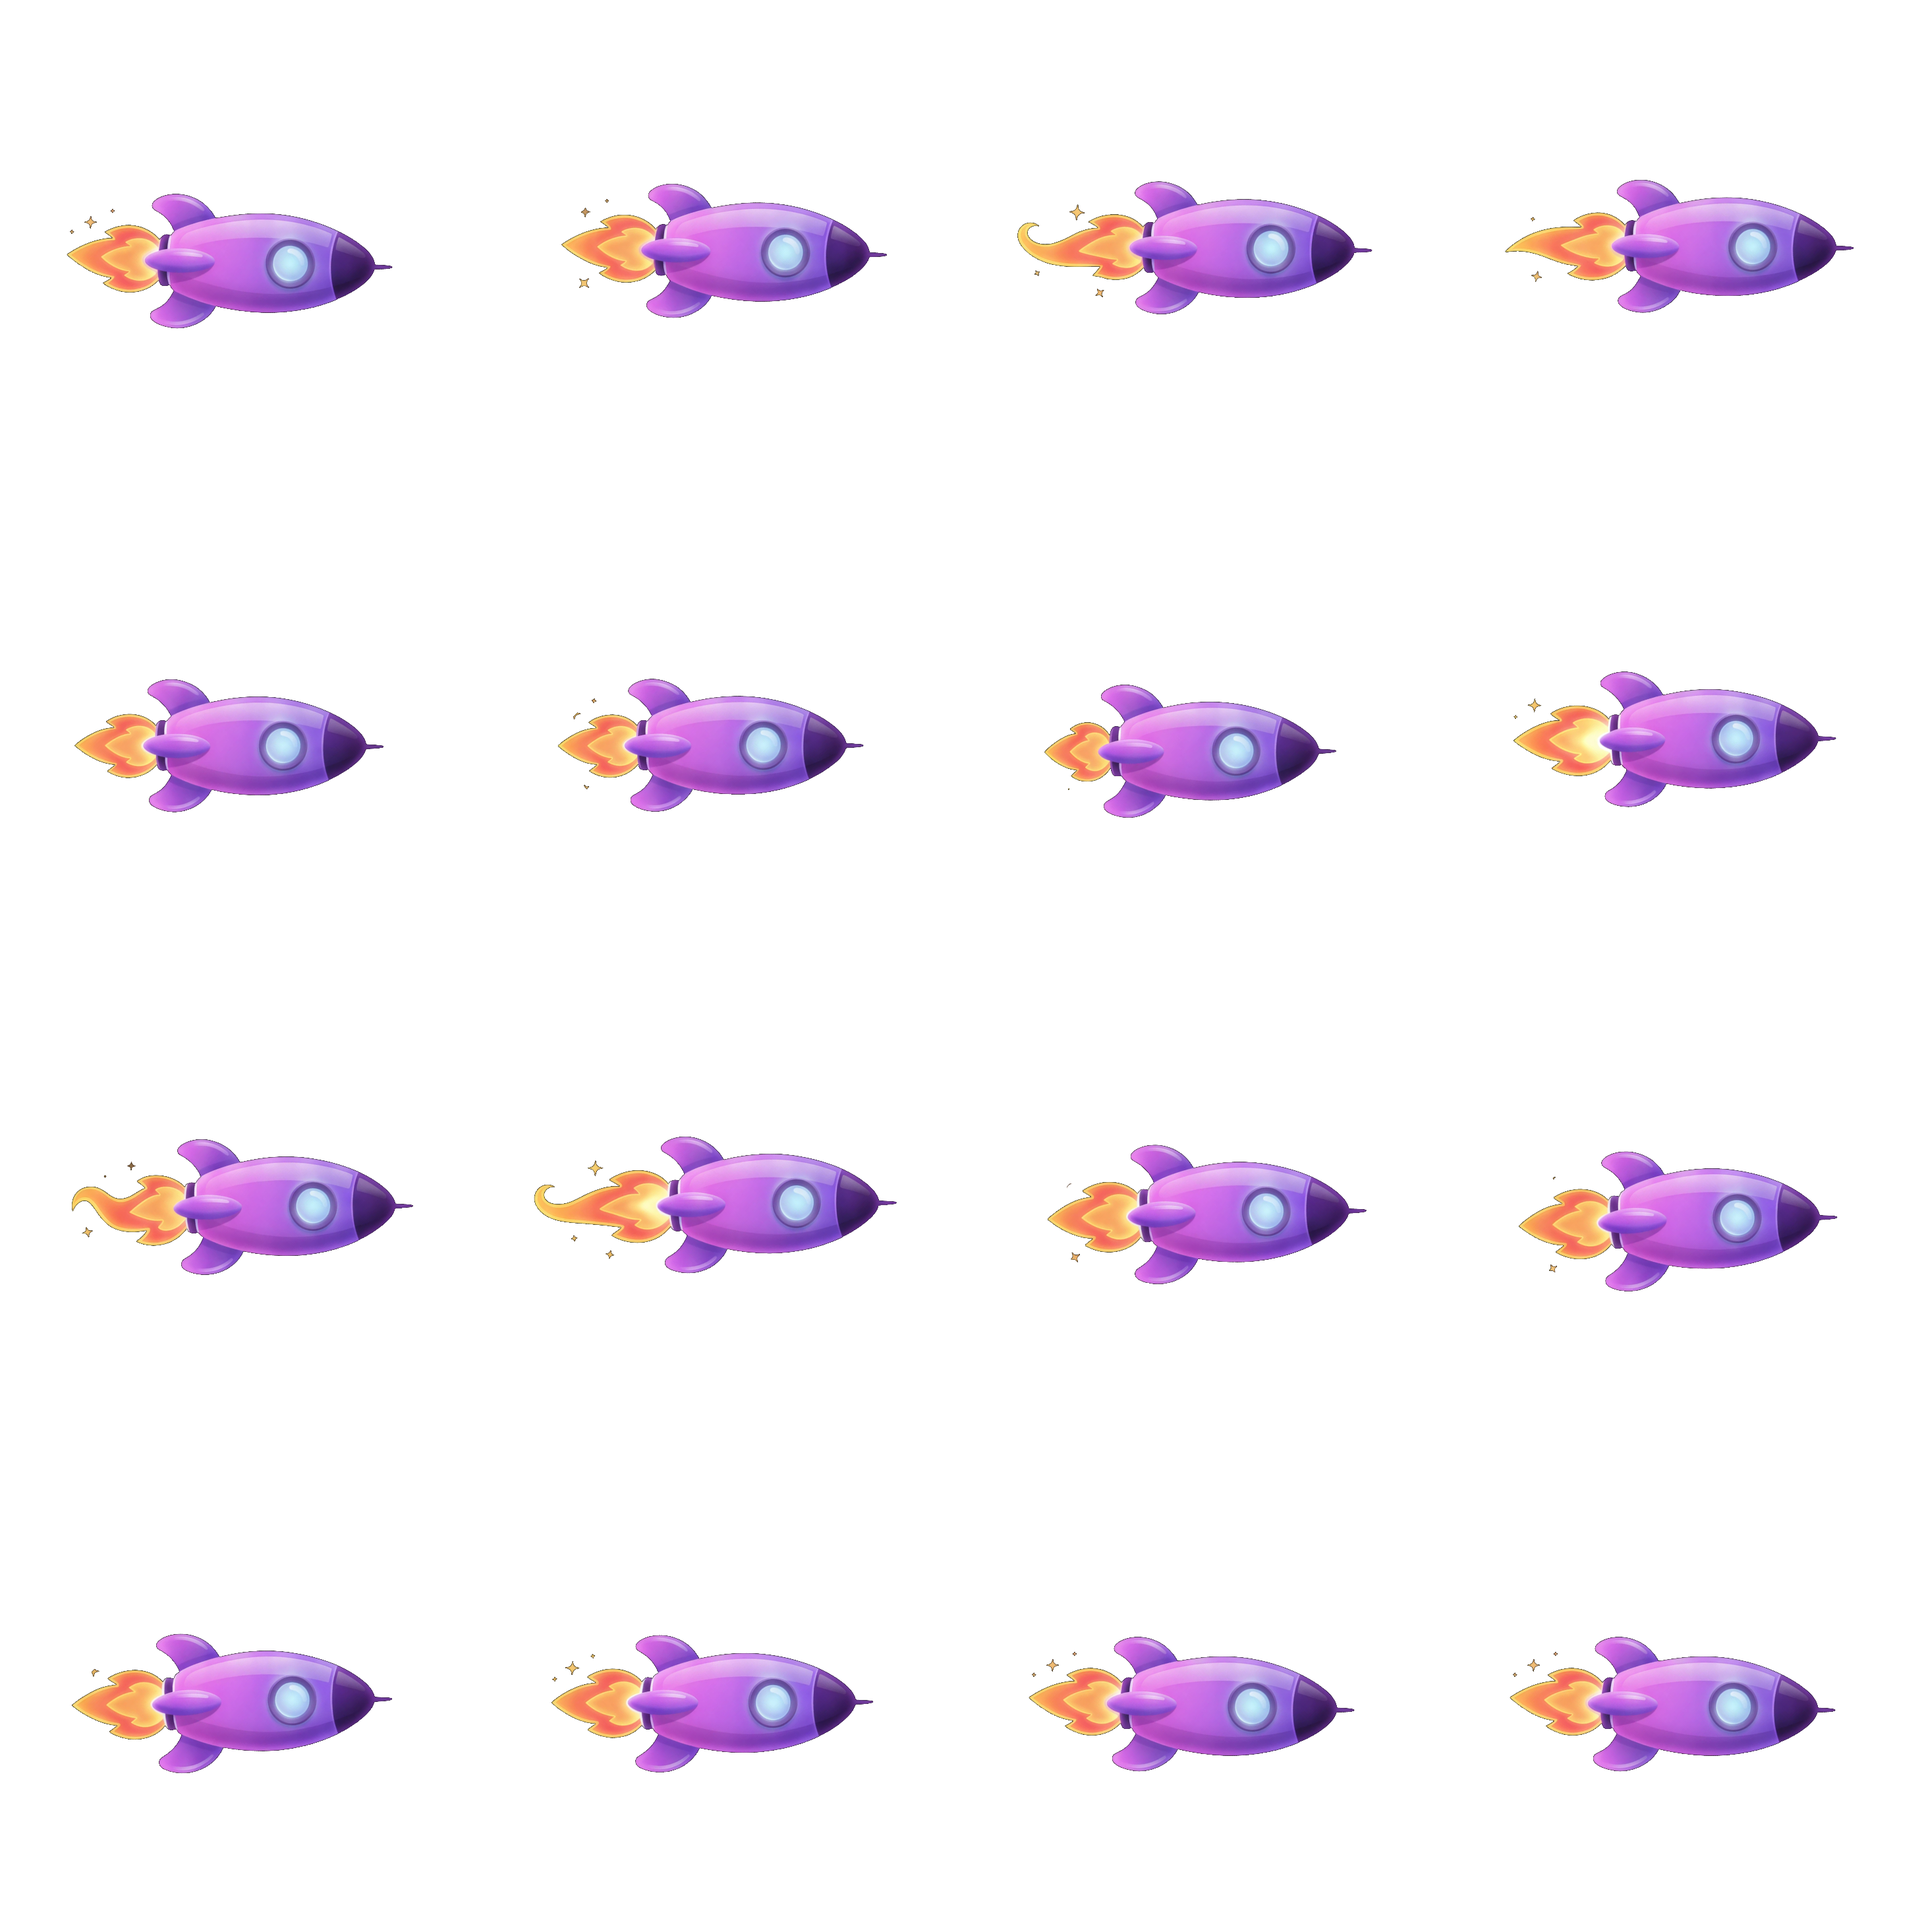
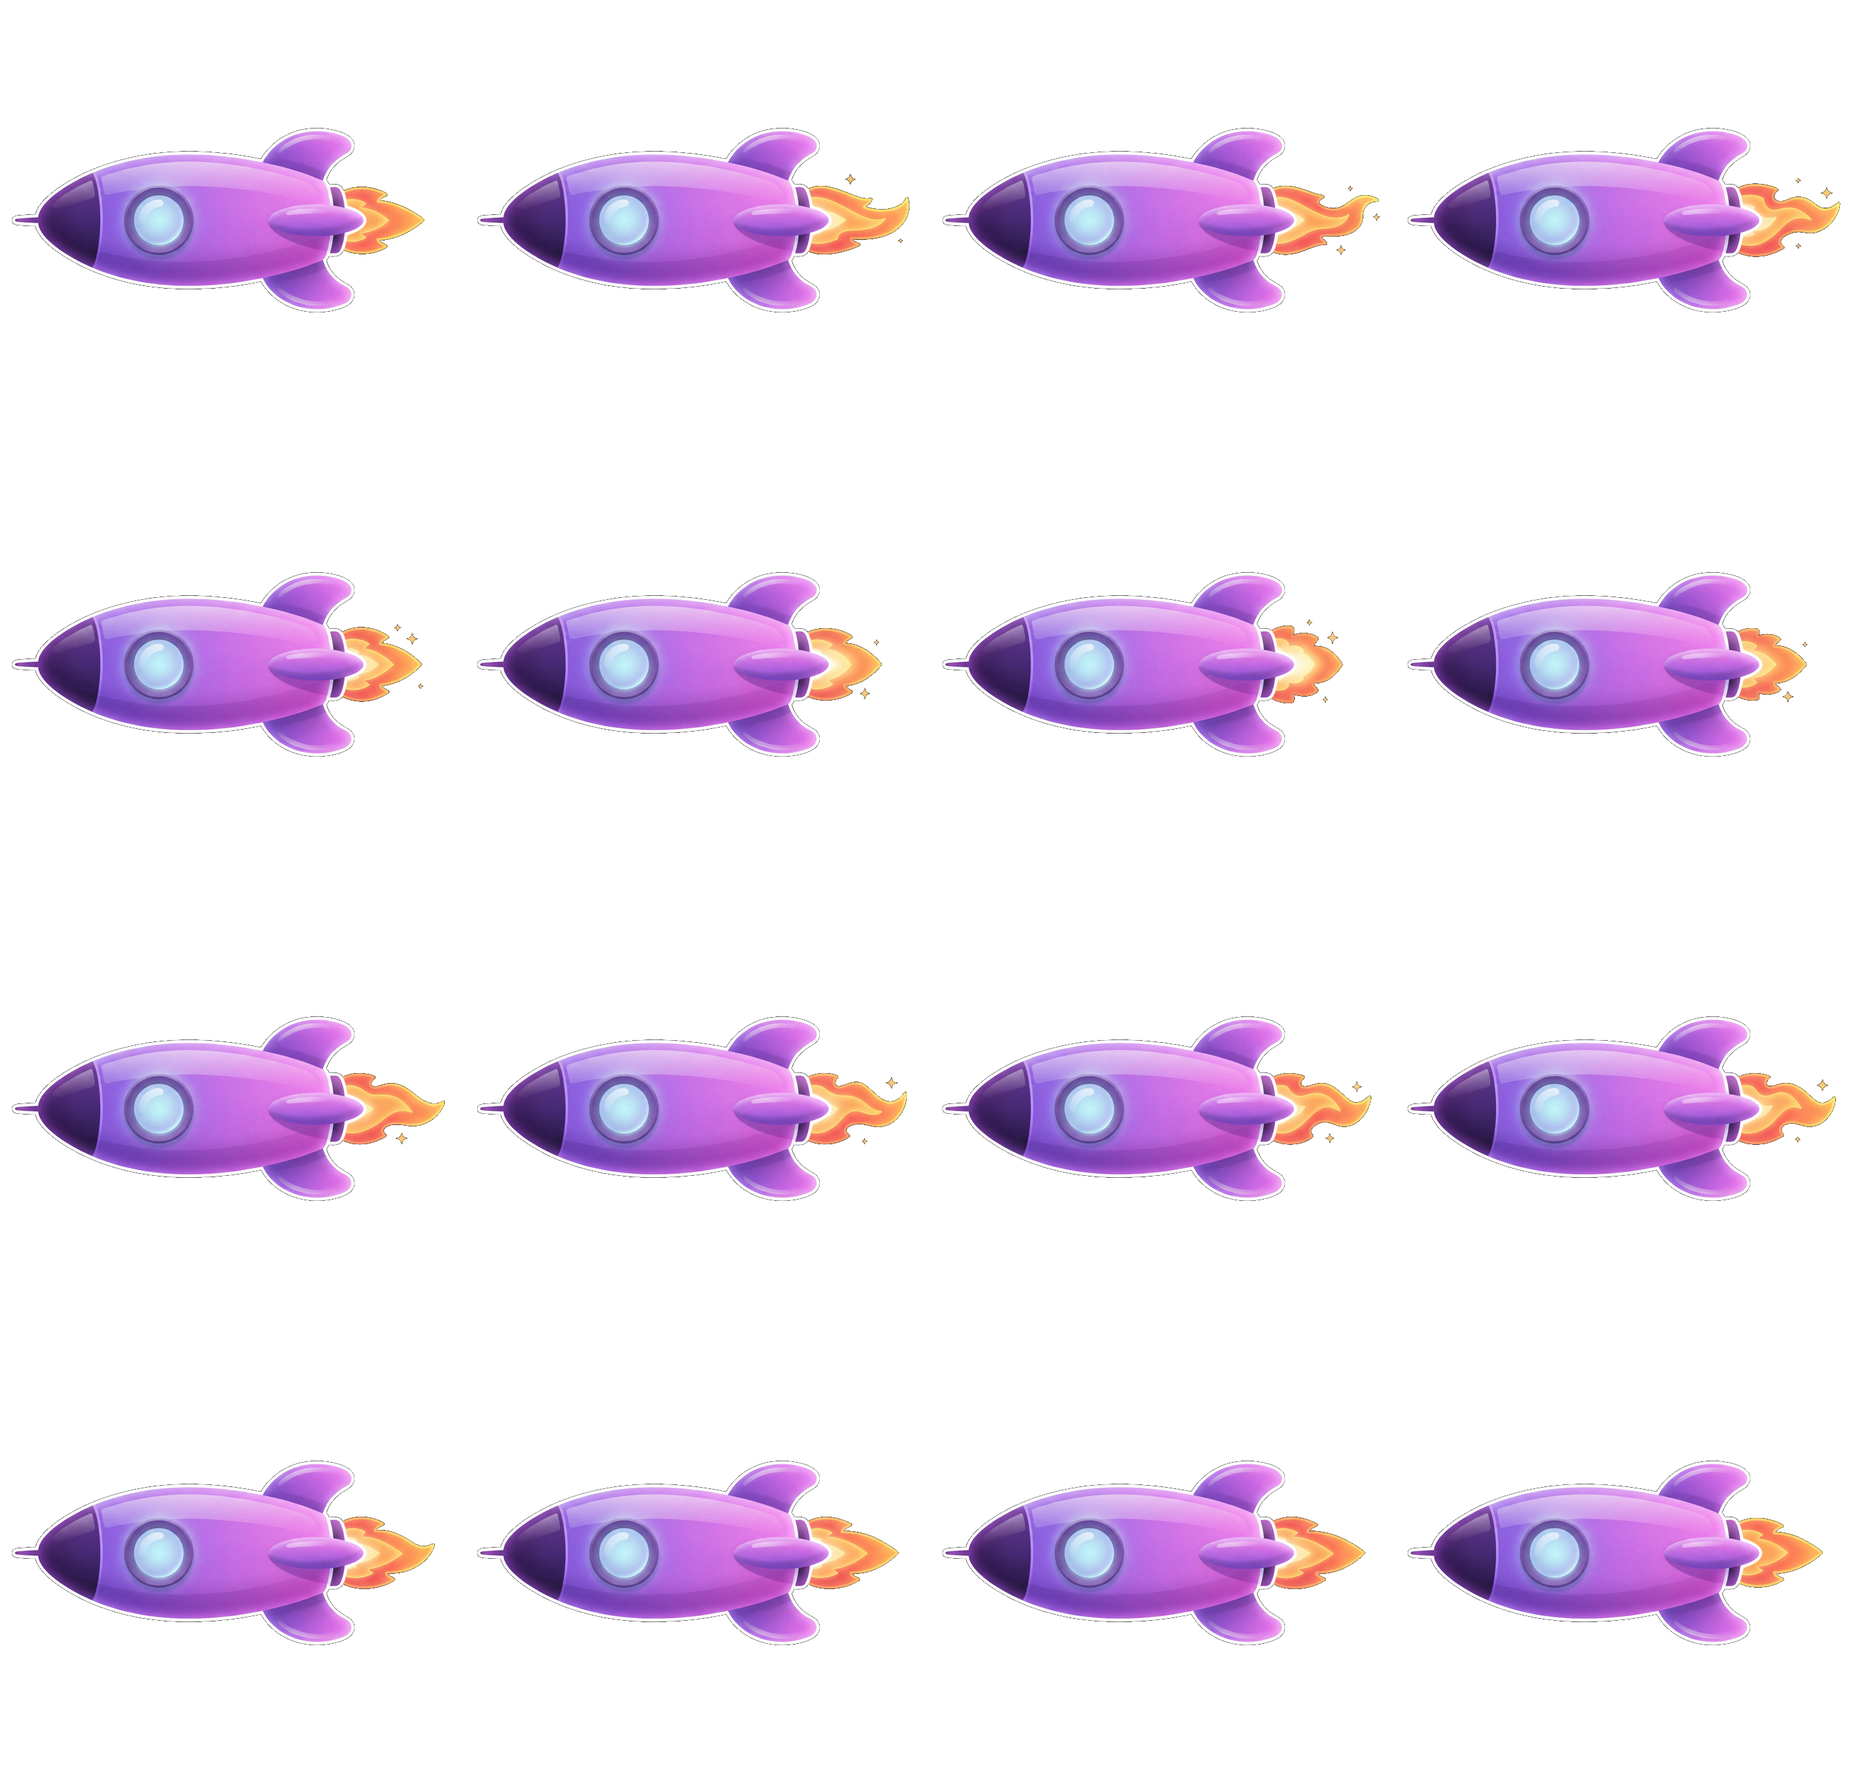
Aviator: swap in the new rocket sprite set (with sticker outline)
Replaced the first rocket sprite sheet with a new one built from a
fresh 16-frame export the user uploaded to Figma — cleaner art with a
white sticker-style outline. Source frames are non-square this time
(700x668 per cell after downscale, vs the old 725x725), confirmed
top-left anchored (rocket body starts at the identical pixel in every
frame) so the sheet assembly still keeps the body rock-steady across
frames with only the flame animating.

diff --git a/src/app/demos/aviator/page.tsx b/src/app/demos/aviator/page.tsx
@@ -152,10 +152,12 @@ function rollAmbientCrash(u: number) {
 // needed the way the earlier vector biplane required. The rocket's own body
 // never moves within its cell — only the exhaust flame animates — so the
 // sprite can just be centered on the flight path with no anchor-offset math.
-const ROCKET_SHEET_CELL = 725;
-const ROCKET_SHEET_PITCH = 730;
-const ROCKET_SHEET_PX = 2920;
-const ROCKET_W = 204, ROCKET_H = 204;
+// v2 art (replaced per feedback) — not square: each cell is 700x668, laid
+// out on a 706x674 pitch (4x4 grid, sheet 2824x2696).
+const ROCKET_SHEET_CELL_W = 700, ROCKET_SHEET_CELL_H = 668;
+const ROCKET_SHEET_PITCH_W = 706, ROCKET_SHEET_PITCH_H = 674;
+const ROCKET_SHEET_PX_W = 2824, ROCKET_SHEET_PX_H = 2696;
+const ROCKET_W = 204, ROCKET_H = Math.round(ROCKET_W * (ROCKET_SHEET_CELL_H / ROCKET_SHEET_CELL_W));
 const ROCKET_ART_OFFSET_DEG = 0;
 
 // ---------- palette / fake data ----------
@@ -317,15 +319,15 @@ function RocketSheetSprite() {
     raf = requestAnimationFrame(tick);
     return () => cancelAnimationFrame(raf);
   }, []);
-  const k = ROCKET_W / ROCKET_SHEET_CELL;
+  const k = ROCKET_W / ROCKET_SHEET_CELL_W;
   const col = idx % 4;
   const row = Math.floor(idx / 4);
   return (
     <div style={{
       width: ROCKET_W, height: ROCKET_H,
       backgroundImage: `url(${IMG}/arena/rocket-sheet-rgba.png)`,
-      backgroundSize: `${ROCKET_SHEET_PX * k}px ${ROCKET_SHEET_PX * k}px`,
-      backgroundPosition: `-${col * ROCKET_SHEET_PITCH * k}px -${row * ROCKET_SHEET_PITCH * k}px`,
+      backgroundSize: `${ROCKET_SHEET_PX_W * k}px ${ROCKET_SHEET_PX_H * k}px`,
+      backgroundPosition: `-${col * ROCKET_SHEET_PITCH_W * k}px -${row * ROCKET_SHEET_PITCH_H * k}px`,
     }} />
   );
 }

diff --git a/scripts/prep-aviator-rocket.py b/scripts/prep-aviator-rocket.py
@@ -1,9 +1,13 @@
-"""Assembles the 14 individually-exported rocket animation frames (Figma
-file 4anwFeSG9mfV4vSrreKvVC, node 965:10939, frames named frame_01..frame_16
-skipping 08/09) into one 4x4 sprite sheet and alpha-keys the flat #1e1e1e
-background, reusing the exact same border-connected flood-fill technique as
-prep-capybara-assets.py. Frame 1 is repeated into the two trailing empty
-grid slots so the sheet is a full 16-cell loop with no dead cells.
+"""Assembles the 16 individually-exported rocket animation frames (Figma
+file 4anwFeSG9mfV4vSrreKvVC, node 965:10939, frames named "1".."16") into
+one 4x4 sprite sheet and alpha-keys the flat #1e1e1e background, reusing the
+exact same border-connected flood-fill technique as prep-capybara-assets.py.
+
+The source frames are all top-left anchored (rocket body starts at the same
+(36, 402) pixel in every frame — verified before writing this) with only
+the flame's right/bottom extent varying, so each frame is padded up to a
+common canvas at (0, 0) rather than centered, keeping the rocket rock-steady
+across frames.
 
 Run once from the frame PNGs in the scratchpad; not part of the normal
 asset pipeline since the source frames aren't checked into the repo.
@@ -12,14 +16,15 @@ import numpy as np
 from PIL import Image
 from scipy import ndimage
 
-FRAMES_DIR = "/private/tmp/claude-501/-Users-antonkovalcuk-VS-CODE-portfolio/84c853f2-7072-45f7-9138-4c4e2ea9de6c/scratchpad/rocket_frames"
+FRAMES_DIR = "/private/tmp/claude-501/-Users-antonkovalcuk-VS-CODE-portfolio/84c853f2-7072-45f7-9138-4c4e2ea9de6c/scratchpad/rocket_frames_v2"
 OUT = "/Users/antonkovalcuk/VS CODE/portfolio/public/img/aviator/arena/rocket-sheet-rgba.png"
 
-FRAME_ORDER = ["01", "02", "03", "04", "05", "06", "07", "10", "11", "12", "13", "14", "15", "16"]
-CELL = 725
+FRAME_ORDER = [f"{i:02d}" for i in range(1, 17)]
+CANVAS_W, CANVAS_H = 1447, 1382  # max native size across all 16 frames
+CELL_W, CELL_H = 700, 668  # downscaled, same aspect ratio
 COLS, ROWS = 4, 4
-GAP = 5
-PITCH = CELL + GAP
+GAP = 6
+PITCH_W, PITCH_H = CELL_W + GAP, CELL_H + GAP
 
 BG = np.array([30.0, 30.0, 30.0])
 KEY_HARD = 14.0
@@ -61,18 +66,16 @@ def key_alpha(img: Image.Image) -> Image.Image:
 
 
 def main():
-    sheet_w, sheet_h = COLS * PITCH, ROWS * PITCH
+    sheet_w, sheet_h = COLS * PITCH_W, ROWS * PITCH_H
     sheet = Image.new("RGB", (sheet_w, sheet_h), (30, 30, 30))
 
-    cells = FRAME_ORDER + [FRAME_ORDER[0], FRAME_ORDER[0]]  # pad to 16, loop back to frame 1
-    assert len(cells) == COLS * ROWS
-
-    for i, num in enumerate(cells):
+    for i, num in enumerate(FRAME_ORDER):
         frame = Image.open(f"{FRAMES_DIR}/frame_{num}.png").convert("RGB")
-        if frame.size != (CELL, CELL):
-            frame = frame.resize((CELL, CELL), Image.LANCZOS)
+        canvas = Image.new("RGB", (CANVAS_W, CANVAS_H), (30, 30, 30))
+        canvas.paste(frame, (0, 0))  # top-left anchored — see module docstring
+        canvas = canvas.resize((CELL_W, CELL_H), Image.LANCZOS)
         col, row = i % COLS, i // COLS
-        sheet.paste(frame, (col * PITCH, row * PITCH))
+        sheet.paste(canvas, (col * PITCH_W, row * PITCH_H))
 
     keyed = key_alpha(sheet)
     keyed.save(OUT, optimize=True)
